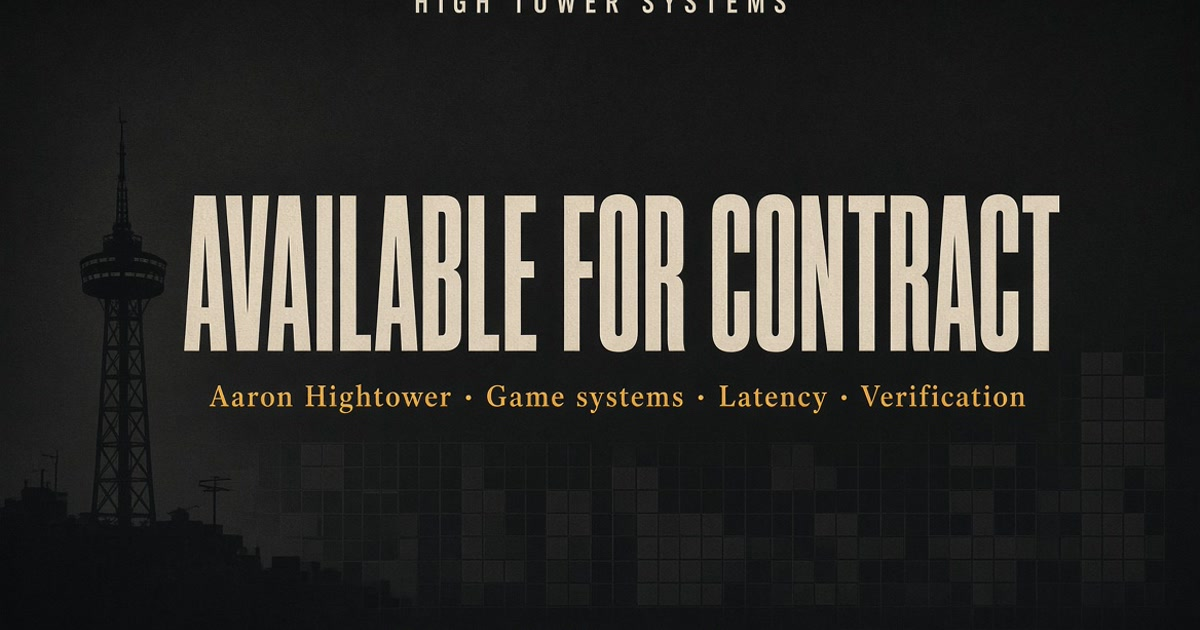
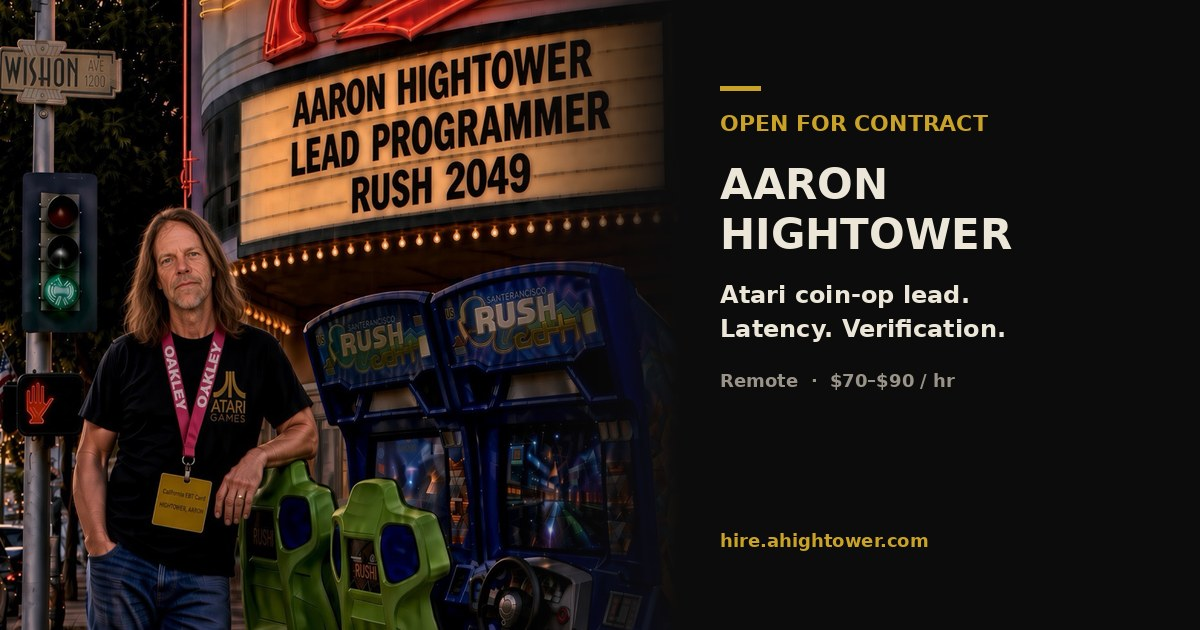
iSH some changes and a new image maybe two

diff --git a/index.html b/index.html
@@ -5,24 +5,24 @@
   <meta name="viewport" content="width=device-width, initial-scale=1" />
   <title>Available for Contract · Aaron Hightower</title>
   <meta name="description" content="Aaron Hightower. Game developer since 1984. Former Atari coin-op lead programmer. Short remote contracts in game systems, latency, and verification. $70 to $90 an hour." />
-  <link rel="canonical" href="https://ahightower.com/hire/" />
+  <link rel="canonical" href="https://hire.ahightower.com/" />
 
   <meta property="og:type" content="website" />
   <meta property="og:site_name" content="Aaron Hightower" />
   <meta property="og:title" content="Available for Contract · Aaron Hightower" />
   <meta property="og:description" content="Game systems, latency, and verification. Remote. $70 to $90 an hour. Atari coin-op through CELLTOWER." />
-  <meta property="og:url" content="https://ahightower.com/hire/" />
-  <meta property="og:image" content="https://ahightower.com/hire/images/og-hire.jpg" />
-  <meta property="og:image:secure_url" content="https://ahightower.com/hire/images/og-hire.jpg" />
+  <meta property="og:url" content="https://hire.ahightower.com/" />
+  <meta property="og:image" content="https://hire.ahightower.com/images/og-hire.jpg" />
+  <meta property="og:image:secure_url" content="https://hire.ahightower.com/images/og-hire.jpg" />
   <meta property="og:image:width" content="1200" />
   <meta property="og:image:height" content="630" />
-  <meta property="og:image:alt" content="Available for Contract. Aaron Hightower. Game systems, latency, verification." />
+  <meta property="og:image:alt" content="Aaron Hightower at the Tower Theatre with San Francisco Rush 2049 cabinets. Available for contract." />
 
   <meta name="twitter:card" content="summary_large_image" />
   <meta name="twitter:site" content="@_aahigh" />
   <meta name="twitter:title" content="Available for Contract · Aaron Hightower" />
   <meta name="twitter:description" content="Game systems, latency, and verification. Remote. $70 to $90 an hour." />
-  <meta name="twitter:image" content="https://ahightower.com/hire/images/og-hire.jpg" />
+  <meta name="twitter:image" content="https://hire.ahightower.com/images/og-hire.jpg" />
 
   <script src="https://cdn.tailwindcss.com"></script>
   <script>
@@ -61,10 +61,26 @@
   </header>
 
   <main class="mx-auto max-w-3xl px-5 pb-20">
-    <section class="pt-10 pb-8">
+    <section class="pt-10 pb-6">
       <p class="font-sans text-xs uppercase tracking-[0.28em] text-gold">Open for short contracts</p>
       <h1 class="mt-3 font-display text-5xl uppercase leading-none tracking-tight sm:text-6xl">Aaron Hightower</h1>
-      <p class="mt-4 max-w-xl text-lg leading-relaxed text-paper/90">
+    </section>
+
+    <figure class="-mx-5 sm:mx-0 sm:overflow-hidden sm:rounded-sm">
+      <img
+        src="images/tower-rush.jpg"
+        width="1200"
+        height="2128"
+        alt="Aaron Hightower in front of the Tower Theatre marquee with two San Francisco Rush 2049 cabinets. The board reads Aaron Hightower, Lead Programmer, Rush 2049."
+        class="w-full h-auto block"
+      />
+      <figcaption class="px-5 sm:px-0 mt-3 font-sans text-[11px] uppercase tracking-widest text-mute">
+        Tower Theatre · Wishon · San Francisco Rush 2049
+      </figcaption>
+    </figure>
+
+    <section class="pt-6 pb-8">
+      <p class="max-w-xl text-lg leading-relaxed text-paper/90">
         Game developer since 1984. Former lead programmer, Atari coin-op.
         I take remote work in game systems, latency, and verification.
         I do not commute. I do not do min-wage. I do not hand over my own engines.
@@ -177,7 +193,7 @@
 
   <footer class="mx-auto max-w-3xl px-5 pb-12 font-sans text-xs uppercase tracking-widest text-mute">
     <p>Aaron Hightower · Tower District, Fresno, CA 93728</p>
-    <p class="mt-2">ahightower.com · aahigh.github.io · @_aahigh</p>
+    <p class="mt-2">hire.ahightower.com · ahightower.com · @_aahigh</p>
   </footer>
 </body>
 </html>
